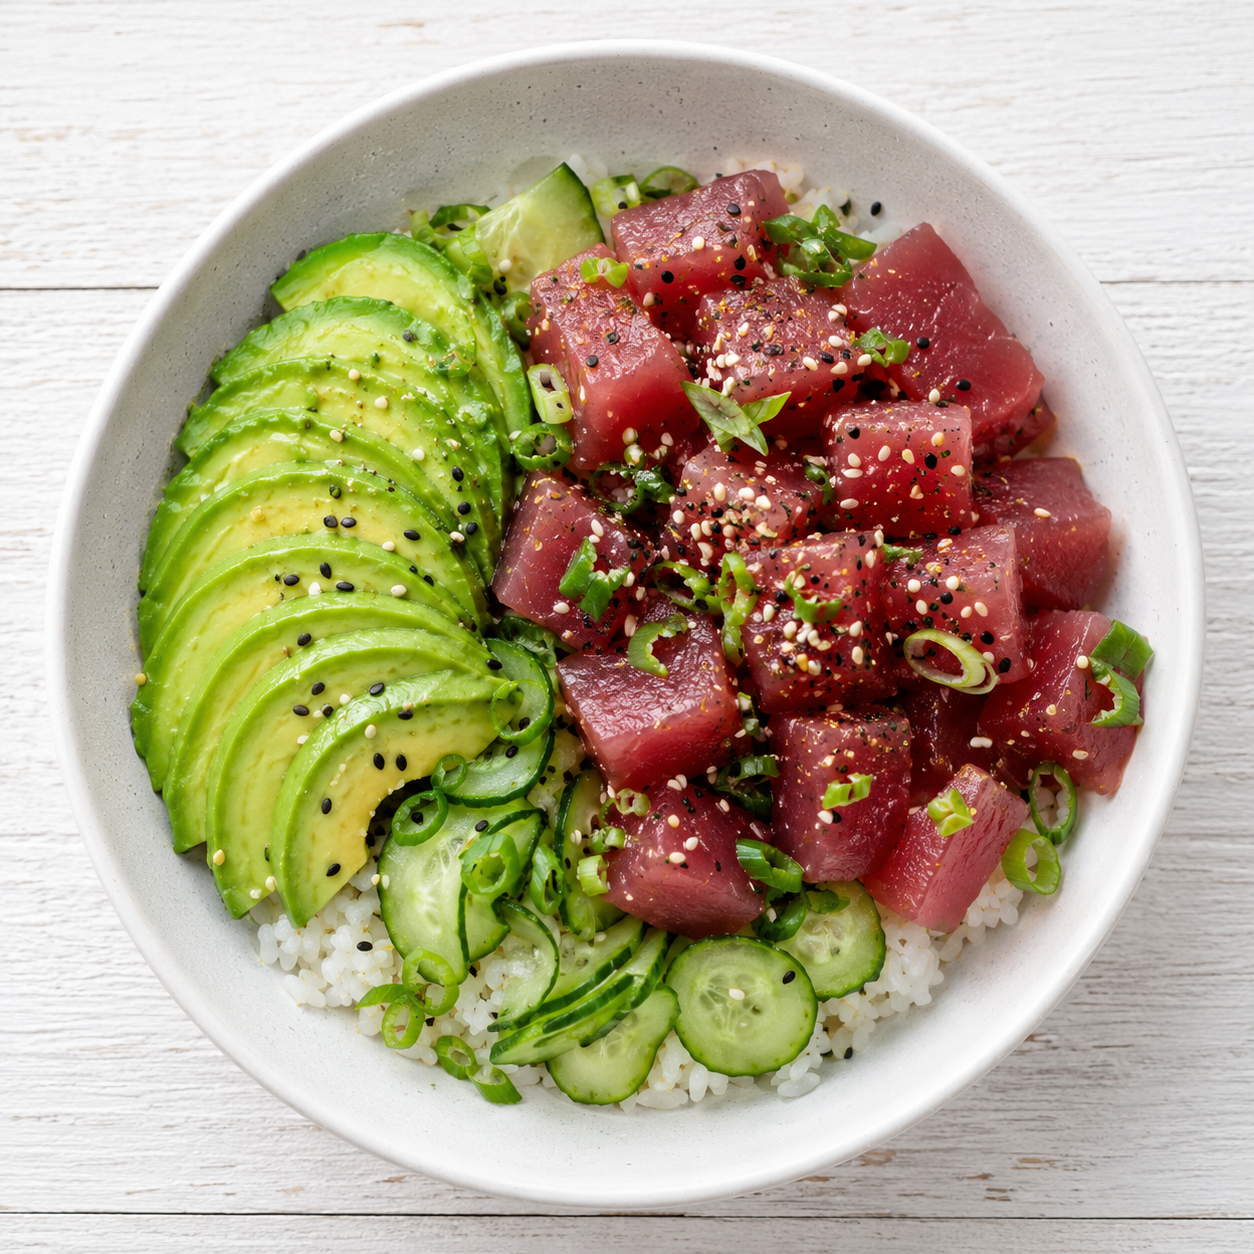
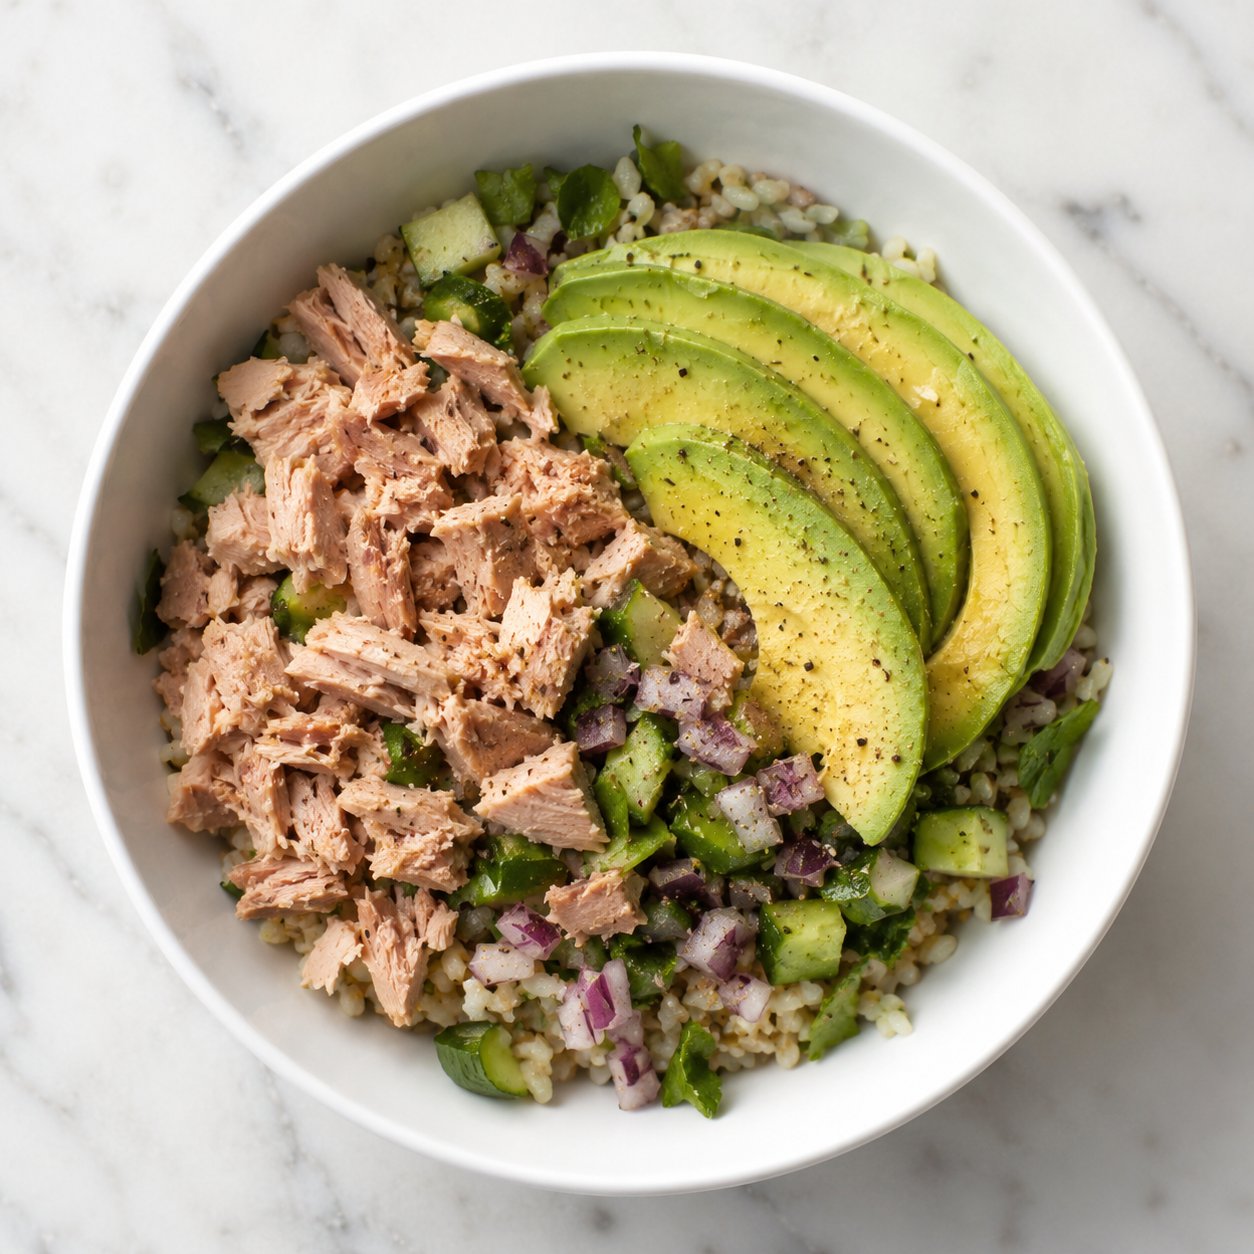
Add lunch images (30/30), update tuna image, remove 2 duplicate meals

diff --git a/js/meals-data.js b/js/meals-data.js
@@ -736,24 +736,6 @@ const MEALS = {
       rescueSteps: ['Lay tortilla flat', 'Spread hummus on it', 'Add any veg you have', 'Roll it up', 'Done']
     },
     {
-      id: 'pb-banana-rice-cakes',
-      name: 'Peanut Butter & Banana Rice Cakes',
-      emoji: '🍌',
-      time: 3, prepTime: 3, cookTime: 0, serves: 1,
-      tag: 'No cook',
-      mealType: 'lunch',
-      labels: ['vegetarian', 'halal'],
-      description: 'A quick, filling lunch when energy is low and hunger is real.',
-      lowCarb: false, grainFree: true, cleanEating: false, containsSugar: false, naturallySweet: true,
-      cleanupScore: 'green',
-      category: 'vegetarian',
-      ingredientIds: ['rice-cakes', 'peanut-butter', 'banana', 'honey'],
-      ingredients: ['4 rice cakes', '4 tbsp peanut butter', '1 banana, sliced', '1 tsp honey (optional)'],
-      steps: ['Spread 1 tbsp peanut butter on each rice cake.', 'Slice the banana and lay the pieces on top.', 'Drizzle with a little honey if you like.', 'Done.'],
-      minSteps: ['Spread peanut butter on rice cakes.', 'Add banana slices.', 'Eat.'],
-      rescueSteps: ['Get out rice cakes', 'Spread peanut butter', 'Slice banana on top', 'Drizzle honey', 'Done']
-    },
-    {
       id: 'cheese-tomato-toastie',
       name: 'Cheese & Tomato Toastie',
       emoji: '🫓',
@@ -920,31 +902,6 @@ const MEALS = {
       ],
       minSteps: ['Warm canned beans, mash slightly.', 'Layer on tortilla with cheese and salsa.', 'Roll up and eat.'],
       rescueSteps: ['Warm beans in pan', 'Mash roughly with fork', 'Warm tortilla briefly', 'Add beans and cheese', 'Roll up and eat']
-    },
-    {
-      id: 'egg-fried-rice',
-      name: 'Egg Fried Rice',
-      emoji: '🍳',
-      time: 15, prepTime: 3, cookTime: 12, serves: 2,
-      tag: 'Leftover magic',
-      mealType: 'dinner',
-      labels: ['vegetarian', 'halal'],
-      description: 'Day-old rice transforms into a fast, filling meal.',
-      lowCarb: false, grainFree: false, cleanEating: false, containsSugar: false, naturallySweet: false,
-      cleanupScore: 'yellow',
-      category: 'eggs',
-      ingredientIds: ['rice', 'eggs', 'soy-sauce', 'oil'],
-      ingredients: ['2 cups cooked rice (day-old is ideal)', '2 eggs', '2 tbsp soy sauce', '1 tbsp oil', 'Optional: frozen peas, spring onion'],
-      steps: [
-        'Heat 1 tbsp oil in a large pan over high heat until shimmering.',
-        'Add 2 cups cooked rice. Spread flat and leave it alone for 2 minutes to get crispy.',
-        'Stir the rice, then push it to one side of the pan.',
-        'Crack both 2 eggs into the empty space. Scramble them quickly.',
-        'Once the eggs are just set, fold them through the rice.',
-        'Add 2 tbsp soy sauce. Stir everything together.'
-      ],
-      minSteps: ['Fry rice in hot pan, don\'t stir for 2 min.', 'Push to side, scramble 2 eggs.', 'Mix together, add soy sauce.'],
-      rescueSteps: ['Hot oil in pan', 'Rice flat, no stirring', 'Push rice to side', 'Scramble two eggs', 'Mix with soy sauce']
     },
     {
       id: 'spiced-chickpeas',

diff --git a/js/app.js b/js/app.js
@@ -990,7 +990,7 @@ const App = (() => {
       const rating     = _loadRating(meal.id);
       const ratingHtml = rating ? `<div class="meal-card-rating">${'★'.repeat(rating)}${'☆'.repeat(5-rating)}</div>` : '';
 
-      const hasImg = meal.mealType === 'dinner';
+      const hasImg = meal.mealType === 'dinner' || meal.mealType === 'lunch';
       const imgHtml = hasImg
         ? `<div class="meal-img-wrap"><img class="meal-img" src="Images/${meal.id}.webp" loading="lazy" decoding="async" alt="${_escape(meal.name)}" onerror="this.closest('.meal-img-wrap').style.display='none'"></div>`
         : '';

diff --git a/HANDOVER.md b/HANDOVER.md
@@ -156,6 +156,10 @@ HANDOVER.md                — This file
 
 ## Next Session Priorities
 
+> **Completed this session:** Lunch meal images added (30 of 30 now complete including prawn-avocado-rice-bowl). Tuna & Avocado Bowl image updated to show tinned tuna. Two duplicate meals removed: egg-fried-rice (dinner duplicate — lunch version kept) and pb-banana-rice-cakes (lunch duplicate — breakfast version kept). Total meal count reduced by 2.
+
+
+
 > **Completed this session:** Food photography added for all 44 dinner meals. AI-generated 1:1 images converted from PNG to WebP (98MB → 2.6MB, avg 58KB each). Images stored in /images/ folder. Meal cards updated with full-bleed 4:3 image at top, card body wrapped in .meal-card-body. onerror fallback hides image wrap if file missing — safe for lunch/breakfast meals with no images yet. Lunch and breakfast images pending.
 
 
